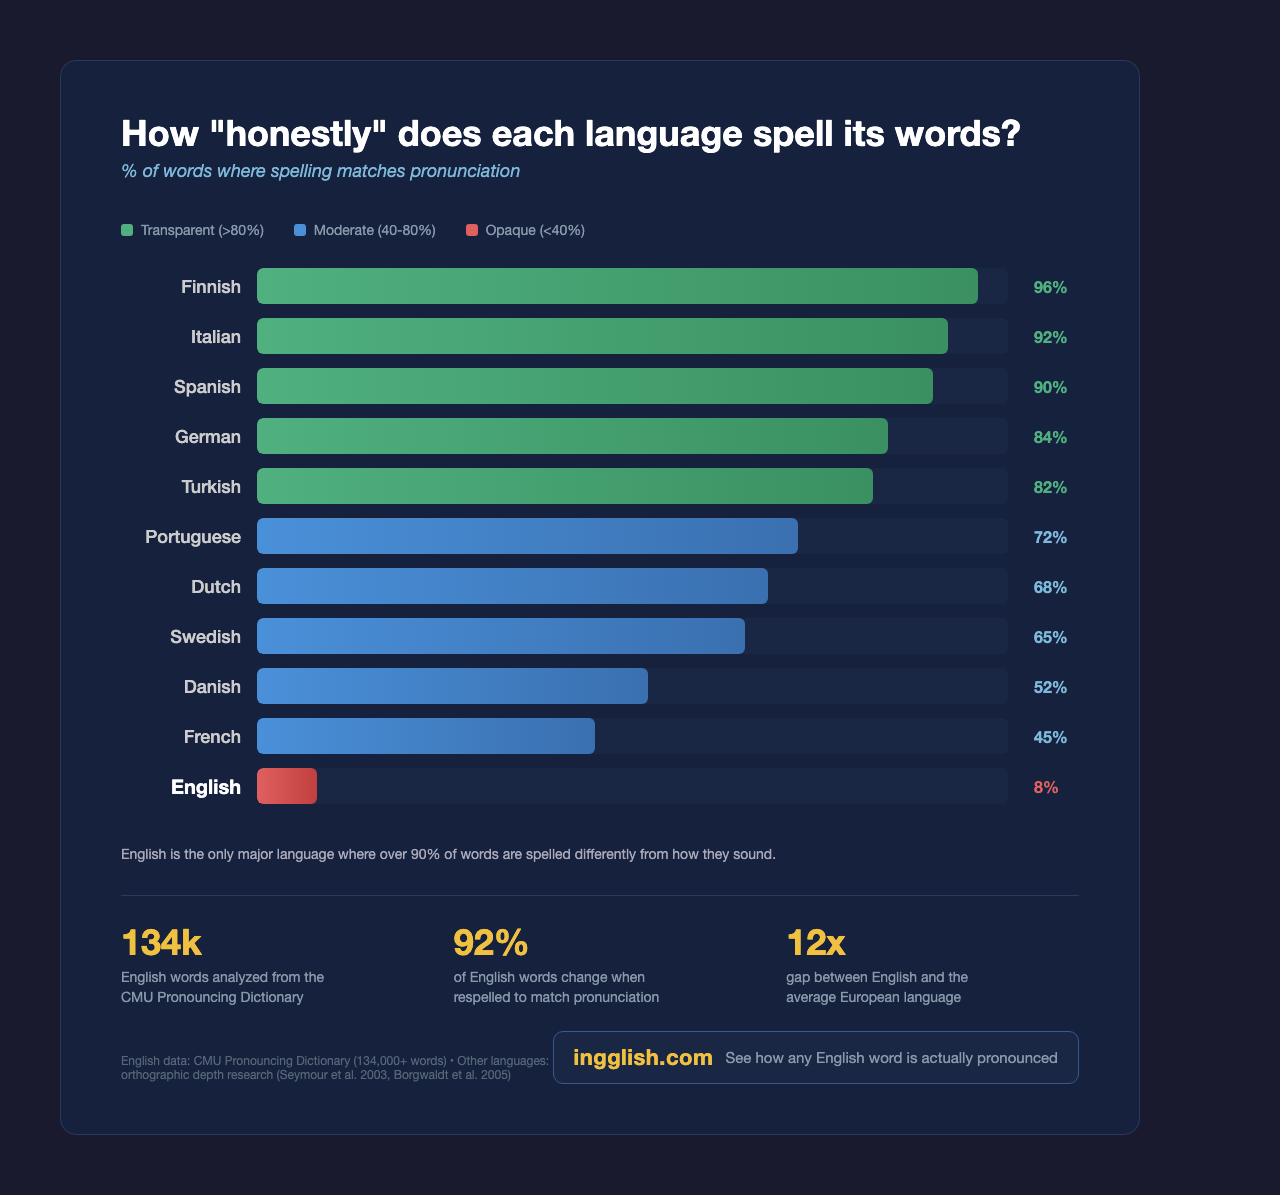
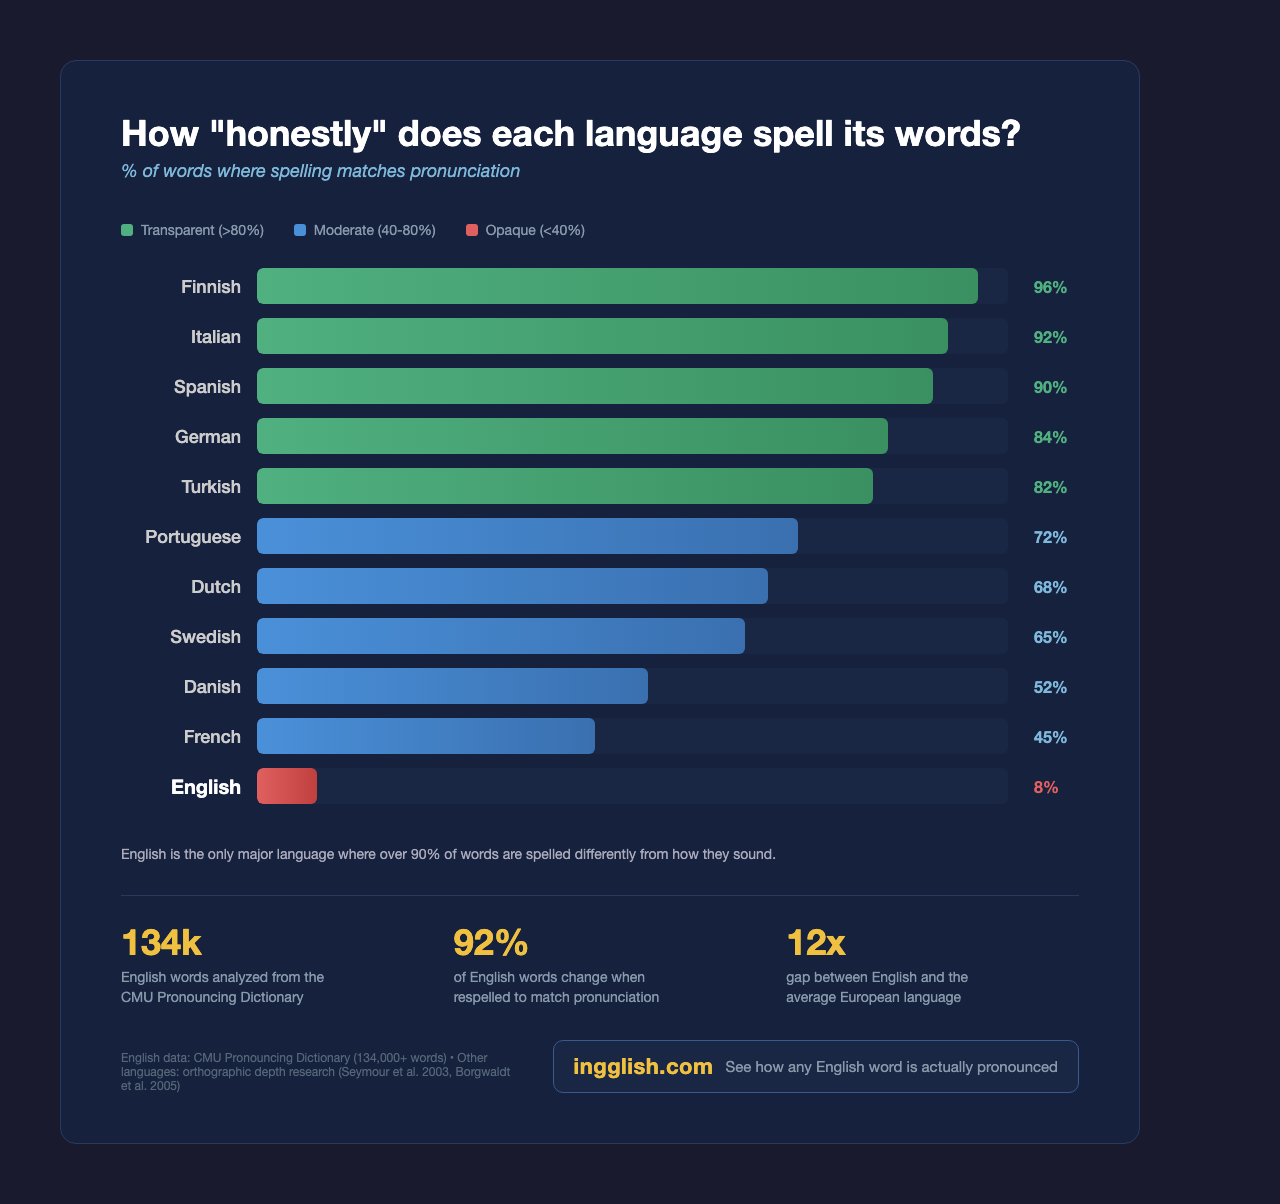
style: bottom-align footer items and add gap in social images

diff --git a/social/dataisbeautiful-spelling-transparency.html b/social/dataisbeautiful-spelling-transparency.html
@@ -156,8 +156,9 @@
   .footer {
     margin-top: 24px;
     display: flex;
-    align-items: center;
+    align-items: flex-end;
     justify-content: space-between;
+    gap: 40px;
   }
   .site-link {
     padding: 12px 20px;

diff --git a/social/etymology-misspelled-words.html b/social/etymology-misspelled-words.html
@@ -143,8 +143,9 @@
   .footer {
     margin-top: 24px;
     display: flex;
-    align-items: center;
+    align-items: flex-end;
     justify-content: space-between;
+    gap: 40px;
   }
   .site-link {
     padding: 12px 20px;
